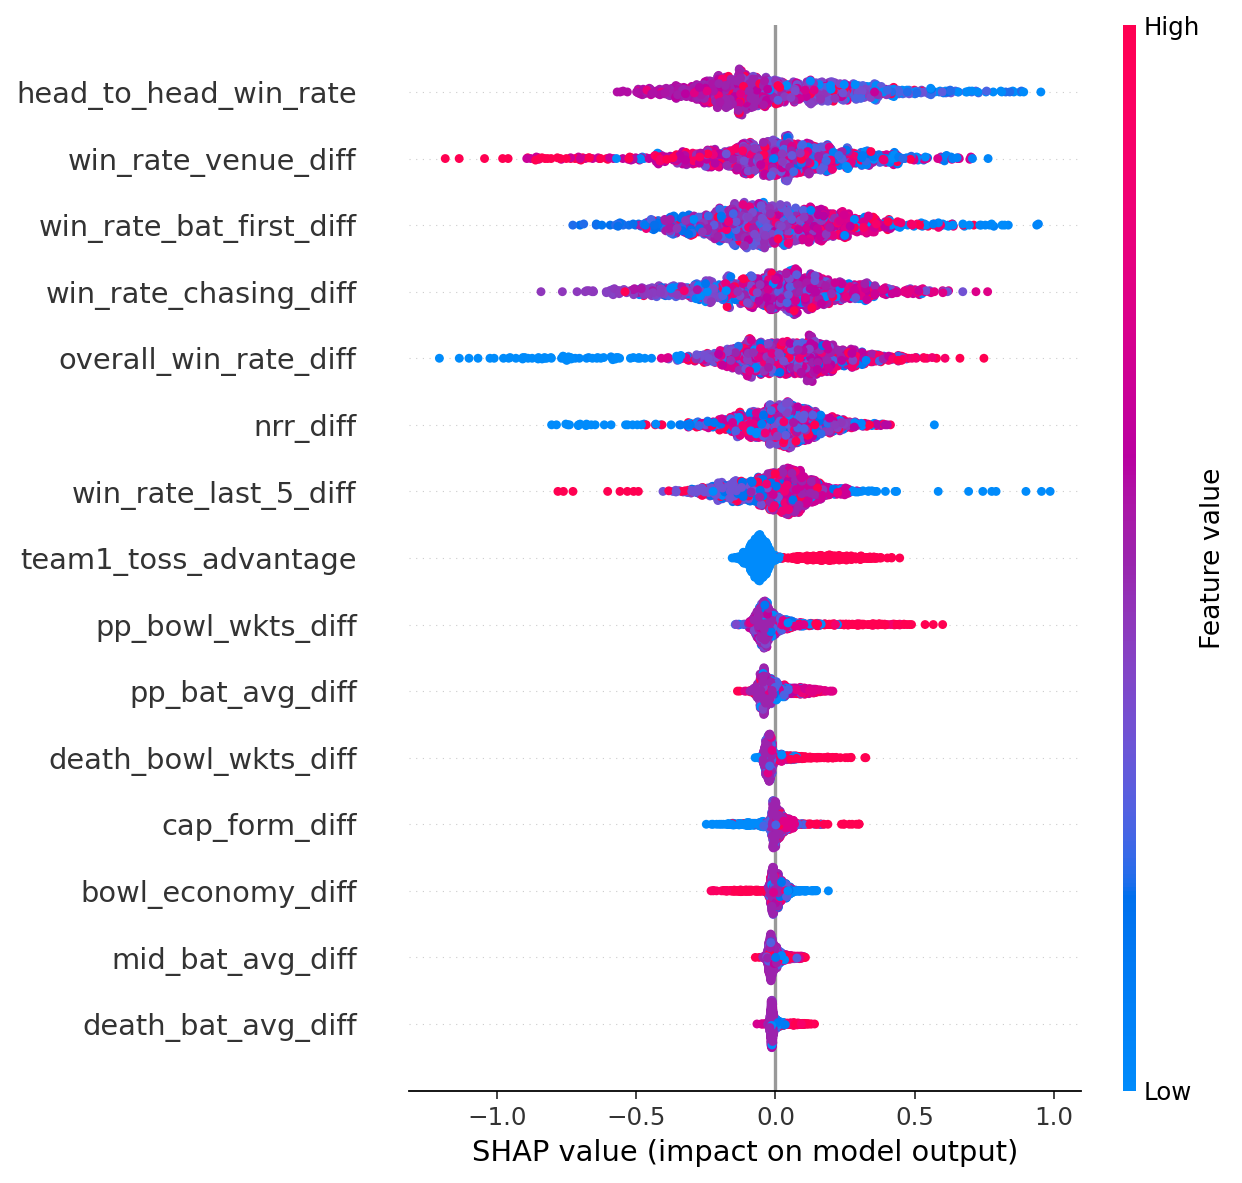
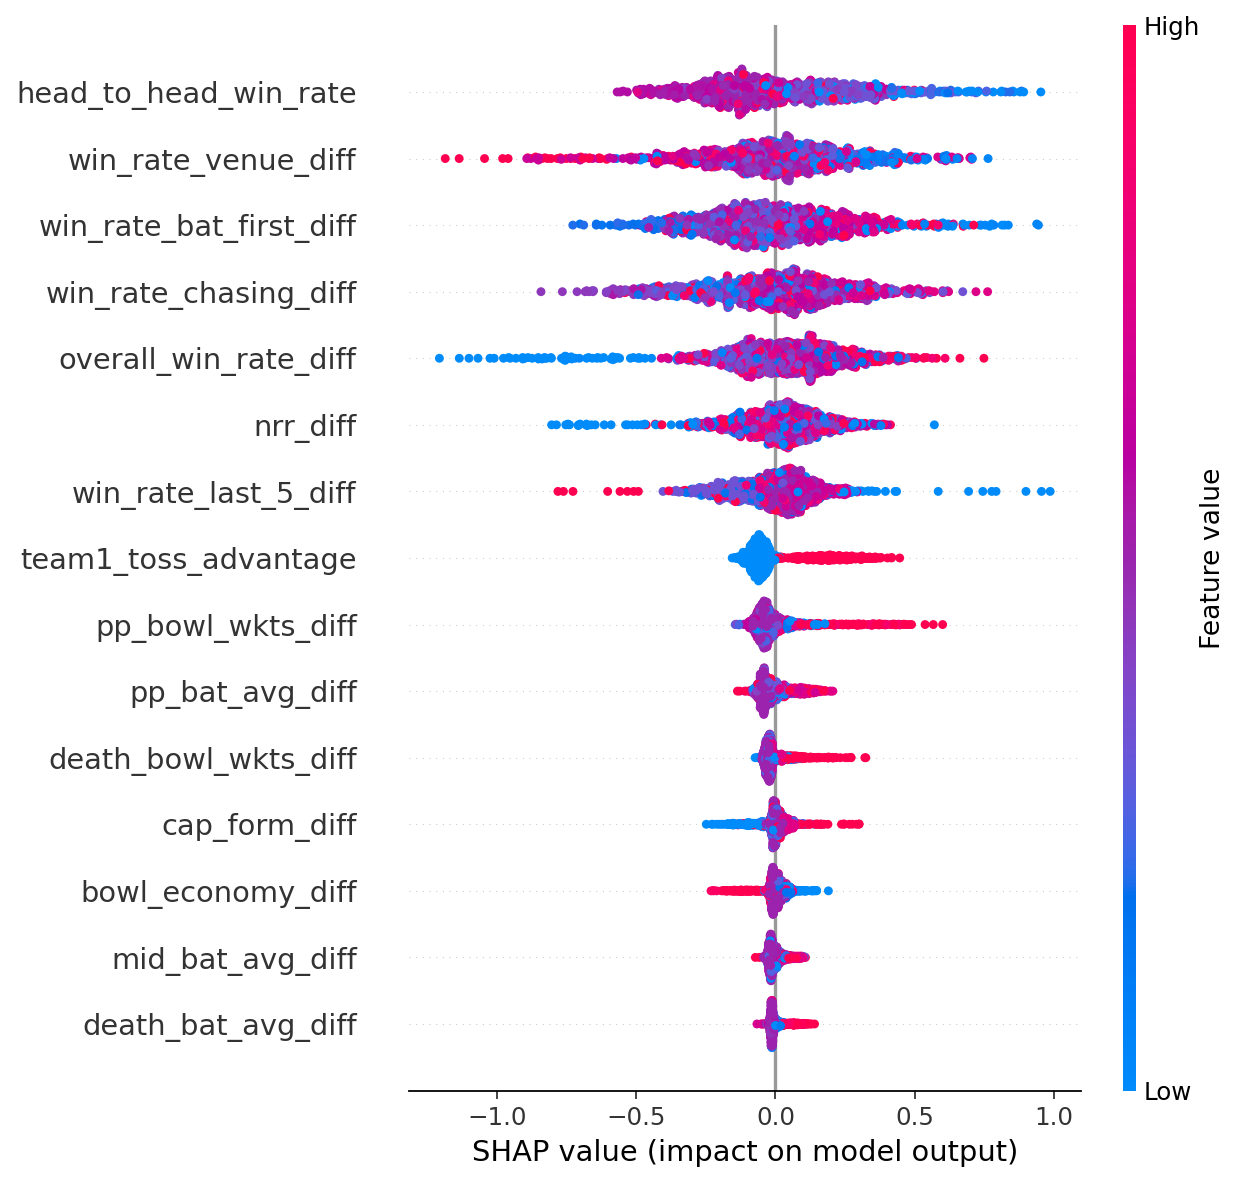
update

diff --git a/streamlit_app.py b/streamlit_app.py
@@ -5,33 +5,57 @@ import streamlit as st
 
 REPORTS_DIR = Path("reports")
 FINAL_TEAM_A = "RCB"
-FINAL_TEAM_B = "SRH"
+FINAL_TEAM_B = "GT"
+
+TEAM_NAME_TO_SHORT = {
+    "Royal Challengers Bengaluru": "RCB",
+    "Gujarat Titans": "GT",
+    "Rajasthan Royals": "RR",
+    "Sunrisers Hyderabad": "SRH",
+    "None": "",
+}
+
+RCB_GT_PREMATCH_PREDICTION = {
+    "Prediction snapshot": "Before RCB vs GT playoff match",
+    "Match": "RCB vs GT",
+    "Predicted winner": "RCB",
+    "Actual winner": "RCB",
+    "Verdict": "Correct",
+}
 
 PLAYOFF_SCHEDULE = pd.DataFrame(
     [
         {
-            "තරඟය (Match)": "Semi Final 1",
+            "තරඟය (Match)": "Qualifier 1 / Semi Final 1",
             "මුහුණ දෙන කණ්ඩායම්": "RCB vs GT",
-            "දිනය (Date)": "මැයි 26 (අඟහරුවාදා)",
+            "දිනය (Date)": "2026-05-26",
             "වේලාව (Time - IST)": "7:30 PM",
             "ක්රීඩාංගණය (Venue)": "HPCA Stadium, Dharamshala",
-            "තත්ත්වය (Status)": "RCB won by 92 runs; GT eliminated",
+            "තත්ත්වය (Status)": "RCB won by 92 runs; RCB entered final, GT moved to Qualifier 2",
         },
         {
-            "තරඟය (Match)": "Semi Final 2",
-            "මුහුණ දෙන කණ්ඩායම්": "SRH vs RR",
-            "දිනය (Date)": "මැයි 27 (බදාදා)",
+            "තරඟය (Match)": "Eliminator",
+            "මුහුණ දෙන කණ්ඩායම්": "RR vs SRH",
+            "දිනය (Date)": "2026-05-27",
             "වේලාව (Time - IST)": "7:30 PM",
-            "ක්රීඩාංගණය (Venue)": "Maharaja Yadavindra Singh Stadium, New Chandigarh",
-            "තත්ත්වය (Status)": "Pending",
+            "ක්රීඩාංගණය (Venue)": "Maharaja Yadavindra Singh Stadium, Mullanpur",
+            "තත්ත්වය (Status)": "RR won by 47 runs; SRH eliminated",
+        },
+        {
+            "තරඟය (Match)": "Qualifier 2",
+            "මුහුණ දෙන කණ්ඩායම්": "GT vs RR",
+            "දිනය (Date)": "2026-05-29",
+            "වේලාව (Time - IST)": "7:30 PM",
+            "ක්රීඩාංගණය (Venue)": "Maharaja Yadavindra Singh Stadium, Mullanpur",
+            "තත්ත්වය (Status)": "GT won by 7 wickets; GT entered final",
         },
         {
             "තරඟය (Match)": "Grand Final",
-            "මුහුණ දෙන කණ්ඩායම්": "RCB vs Semi Final 2 ජයග්රාහකයා",
-            "දිනය (Date)": "මැයි 31 (ඉරිදා)",
+            "මුහුණ දෙන කණ්ඩායම්": "RCB vs GT",
+            "දිනය (Date)": "2026-05-31",
             "වේලාව (Time - IST)": "7:30 PM",
             "ක්රීඩාංගණය (Venue)": "Narendra Modi Stadium, Ahmedabad",
-            "තත්ත්වය (Status)": "RCB confirmed; opponent pending",
+            "තත්ත්වය (Status)": "Final matchup confirmed",
         },
     ]
 )
@@ -59,9 +83,67 @@ def probability_columns(frame: pd.DataFrame) -> tuple[str, str]:
     return "gt_win_probability", "srh_win_probability"
 
 
-st.set_page_config(page_title="IPL 2026 Final XAI Prediction", layout="wide")
-st.title("IPL 2026 Post-Semi Final Explainable AI Prediction")
-st.caption("RCB confirmed finalist | Featured final candidate: RCB vs SRH | Prediction as of May 27, 2026 | Stacked ML ensemble + SHAP + Monte Carlo")
+def short_team(team_name: str) -> str:
+    return TEAM_NAME_TO_SHORT.get(str(team_name).strip(), str(team_name).strip())
+
+
+def infer_final_matchup(playoff_results: pd.DataFrame) -> tuple[str, str, str]:
+    if playoff_results.empty or "Match_Type" not in playoff_results.columns:
+        return f"{FINAL_TEAM_A} vs {FINAL_TEAM_B}", FINAL_TEAM_B, "from local playoff CSV"
+
+    qualifier_2 = playoff_results[
+        playoff_results["Match_Type"].astype(str).str.contains("Qualifier 2", case=False, na=False)
+    ]
+    if qualifier_2.empty:
+        return f"{FINAL_TEAM_A} vs {FINAL_TEAM_B}", FINAL_TEAM_B, "from local playoff CSV"
+
+    winner = short_team(qualifier_2.iloc[-1]["Winner"])
+    date = str(qualifier_2.iloc[-1]["Date"])
+    return f"{FINAL_TEAM_A} vs {winner}", winner, f"after Qualifier 2 on {date}"
+
+
+def score_label(scorecard: pd.DataFrame, team: str) -> str:
+    if scorecard.empty or "Taldea" not in scorecard.columns:
+        return ""
+
+    rows = scorecard[scorecard["Taldea"] == team]
+    if rows.empty:
+        return ""
+
+    row = rows.iloc[0]
+    total = int(row["Team_Total"])
+    wickets = int(row["Wickets"])
+    overs = row["Overs"]
+    return f"{team} {total}/{wickets} ({overs} ov)"
+
+
+def actual_result_summary(scorecard: pd.DataFrame) -> dict[str, str]:
+    fallback = {
+        "winner": "RCB",
+        "margin": "92 runs",
+        "result": "RCB won by 92 runs",
+        "date": "2026-05-26",
+        "venue": "HPCA Stadium, Dharamshala",
+    }
+    if scorecard.empty:
+        return fallback
+
+    first = scorecard.iloc[0]
+    return {
+        "winner": "RCB",
+        "margin": f"{int(first['Margin_Runs'])} runs" if "Margin_Runs" in first.index else fallback["margin"],
+        "result": str(first["Match_Result"]) if "Match_Result" in first.index else fallback["result"],
+        "date": str(first["Match_Date"]) if "Match_Date" in first.index else fallback["date"],
+        "venue": str(first["Venue"]) if "Venue" in first.index else fallback["venue"],
+    }
+
+
+st.set_page_config(page_title="IPL 2026 Playoff Prediction Audit", layout="wide")
+st.title("IPL 2026 Playoff Prediction Dashboard")
+st.caption(
+    "Final matchup confirmed from local playoff data: RCB vs GT | RCB vs GT pre-match prediction audit | "
+    "Archived May 27 XAI report remains available below"
+)
 
 report_path = REPORTS_DIR / "ipl_2026_final_prediction_report.md"
 if not report_path.exists():
@@ -78,29 +160,90 @@ cup_probs = read_csv("playoff_cup_probabilities.csv")
 final_pairs = read_csv("final_pair_probabilities.csv")
 fixture_probs = read_csv("playoff_fixture_probabilities.csv")
 player_forecast = read_csv("player_performance_forecast.csv")
+playoff_results = read_project_csv("ipl_playoffs_2026.csv")
+rcb_gt_batting = read_project_csv("rcb_vs_gt_batting_stats_2026.csv")
+rcb_gt_bowling = read_project_csv("rcb_vs_gt_bowling_stats_2026.csv")
 weather_input = read_project_csv("ipl_playoffs_live_weather.csv")
 right_left_input = read_project_csv("right_left.csv")
 q1_scorecard = read_project_csv("ipl_2026_q1_rcb_vs_gt.csv")
 
+final_matchup, final_opponent, final_status = infer_final_matchup(playoff_results)
+rcb_gt_result = actual_result_summary(q1_scorecard)
+rcb_score = score_label(q1_scorecard, "RCB")
+gt_score = score_label(q1_scorecard, "GT")
+
 col1, col2, col3, col4 = st.columns(4)
-col1.metric("Semi Final 1 result", "RCB won", "92 runs")
-col2.metric("Confirmed finalist", "RCB", "GT eliminated")
+col1.metric("Confirmed final", final_matchup, final_status)
+col2.metric("RCB vs GT audit", "Prediction correct", "pre-match pick: RCB")
+col3.metric("RCB vs GT result", "RCB won", rcb_gt_result["margin"])
 if not model_probs.empty:
     stacked = model_probs[model_probs["model"] == "Stacked Ensemble"].iloc[0]
-    team_a_col, team_b_col = probability_columns(model_probs)
-    team_a = stacked["team_a"] if "team_a" in stacked.index else ("GT" if team_a_col == "gt_win_probability" else FINAL_TEAM_A)
-    team_b = stacked["team_b"] if "team_b" in stacked.index else ("SRH" if team_b_col == "srh_win_probability" else FINAL_TEAM_B)
-    col3.metric(f"{team_a} candidate-final win", f"{stacked[team_a_col] * 100:.1f}%")
-    col4.metric(f"{team_b} candidate-final win", f"{stacked[team_b_col] * 100:.1f}%")
+    archived_pair = f"{stacked['team_a']} vs {stacked['team_b']}" if {"team_a", "team_b"}.issubset(stacked.index) else "May 27 candidate"
+    col4.metric("Archived XAI report", archived_pair, "not the current final row")
+else:
+    col4.metric("Archived XAI report", "Unavailable", "run pipeline to regenerate")
 
-tab_report, tab_playoffs, tab_xai, tab_models, tab_players, tab_scenarios, tab_inputs = st.tabs(
-    ["Report", "Playoffs", "SHAP XAI", "Models", "Players", "Scenarios", "Inputs"]
+tab_report, tab_audit, tab_playoffs, tab_xai, tab_models, tab_players, tab_scenarios, tab_inputs = st.tabs(
+    ["Report", "RCB vs GT Audit", "Playoffs", "SHAP XAI", "Models", "Players", "Scenarios", "Inputs"]
 )
 
 with tab_report:
+    st.warning(
+        "This markdown report is the May 27 candidate-final model run. "
+        "The latest local playoff CSV now confirms the final as RCB vs GT."
+    )
     st.markdown(report_path.read_text(encoding="utf-8"))
 
+with tab_audit:
+    st.subheader("RCB vs GT pre-match prediction audit")
+    st.success(
+        "Audit verdict: the pre-match pick was RCB, and the actual result was RCB won by 92 runs."
+    )
+    st.caption(
+        "This section is labelled as a prediction audit, not as a new prediction generated after the match."
+    )
+
+    audit_rows = pd.DataFrame(
+        [
+            {
+                **RCB_GT_PREMATCH_PREDICTION,
+                "Actual result": rcb_gt_result["result"],
+                "Match date": rcb_gt_result["date"],
+                "Venue": rcb_gt_result["venue"],
+            }
+        ]
+    )
+    st.dataframe(audit_rows, use_container_width=True, hide_index=True)
+
+    score_cols = st.columns(3)
+    score_cols[0].metric("RCB innings", rcb_score or "254/5", "20.0 overs")
+    score_cols[1].metric("GT innings", gt_score or "162/10", "19.3 overs")
+    score_cols[2].metric("Winning margin", rcb_gt_result["margin"], "RCB")
+
+    bat_col, bowl_col = st.columns(2)
+    with bat_col:
+        st.subheader("Top batting evidence")
+        if not rcb_gt_batting.empty:
+            top_batting = rcb_gt_batting.sort_values("Runs", ascending=False).head(8)
+            st.dataframe(top_batting, use_container_width=True, hide_index=True)
+            st.bar_chart(top_batting.set_index("Player")["Runs"])
+
+    with bowl_col:
+        st.subheader("Top bowling evidence")
+        if not rcb_gt_bowling.empty:
+            top_bowling = rcb_gt_bowling.sort_values(["Wickets", "Economy"], ascending=[False, True]).head(8)
+            st.dataframe(top_bowling, use_container_width=True, hide_index=True)
+            st.bar_chart(top_bowling.set_index("Player")["Wickets"])
+
 with tab_playoffs:
+    st.subheader("Confirmed final path")
+    st.info(
+        f"RCB reached the final from Qualifier 1. {final_opponent} reached the final from Qualifier 2. "
+        f"Current final matchup: {final_matchup}."
+    )
+    if not playoff_results.empty:
+        st.dataframe(playoff_results, use_container_width=True)
+
     st.subheader("IPL 2026 playoff schedule")
     st.dataframe(PLAYOFF_SCHEDULE, use_container_width=True)
 
